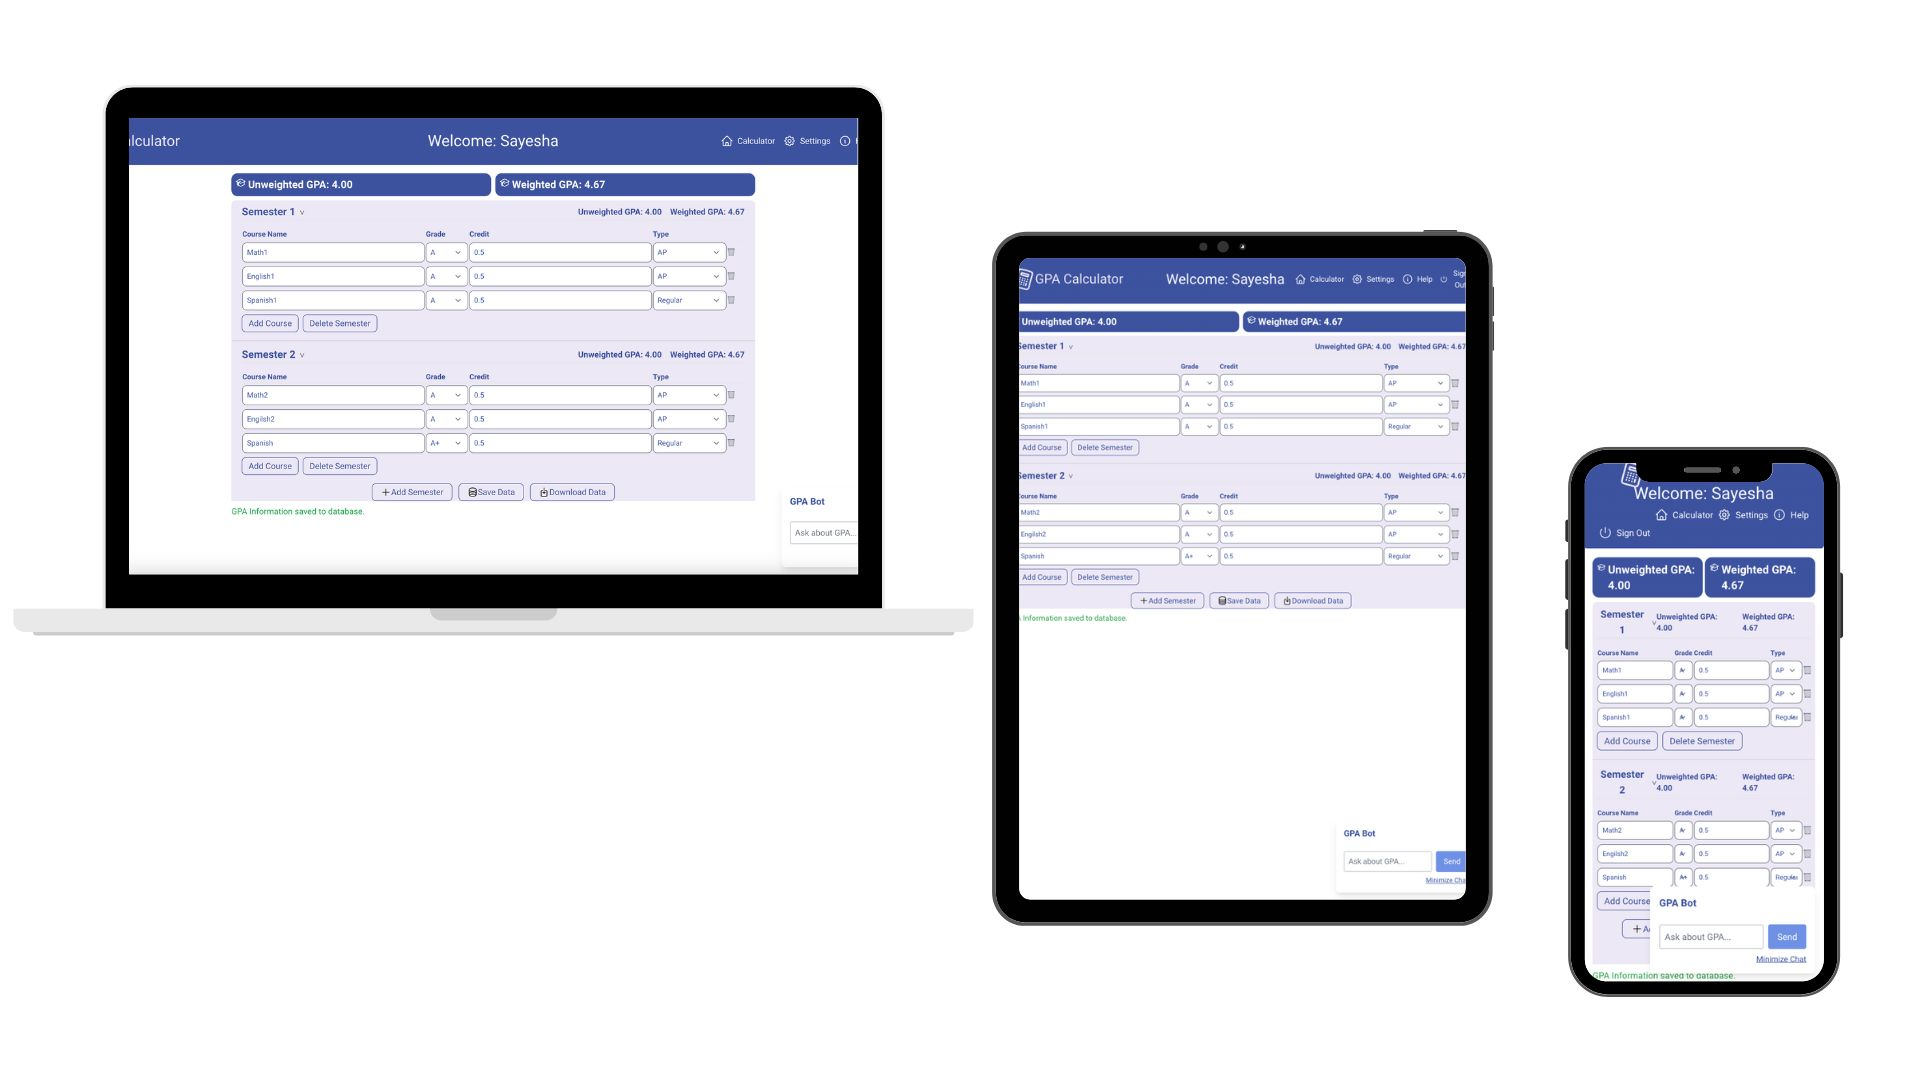
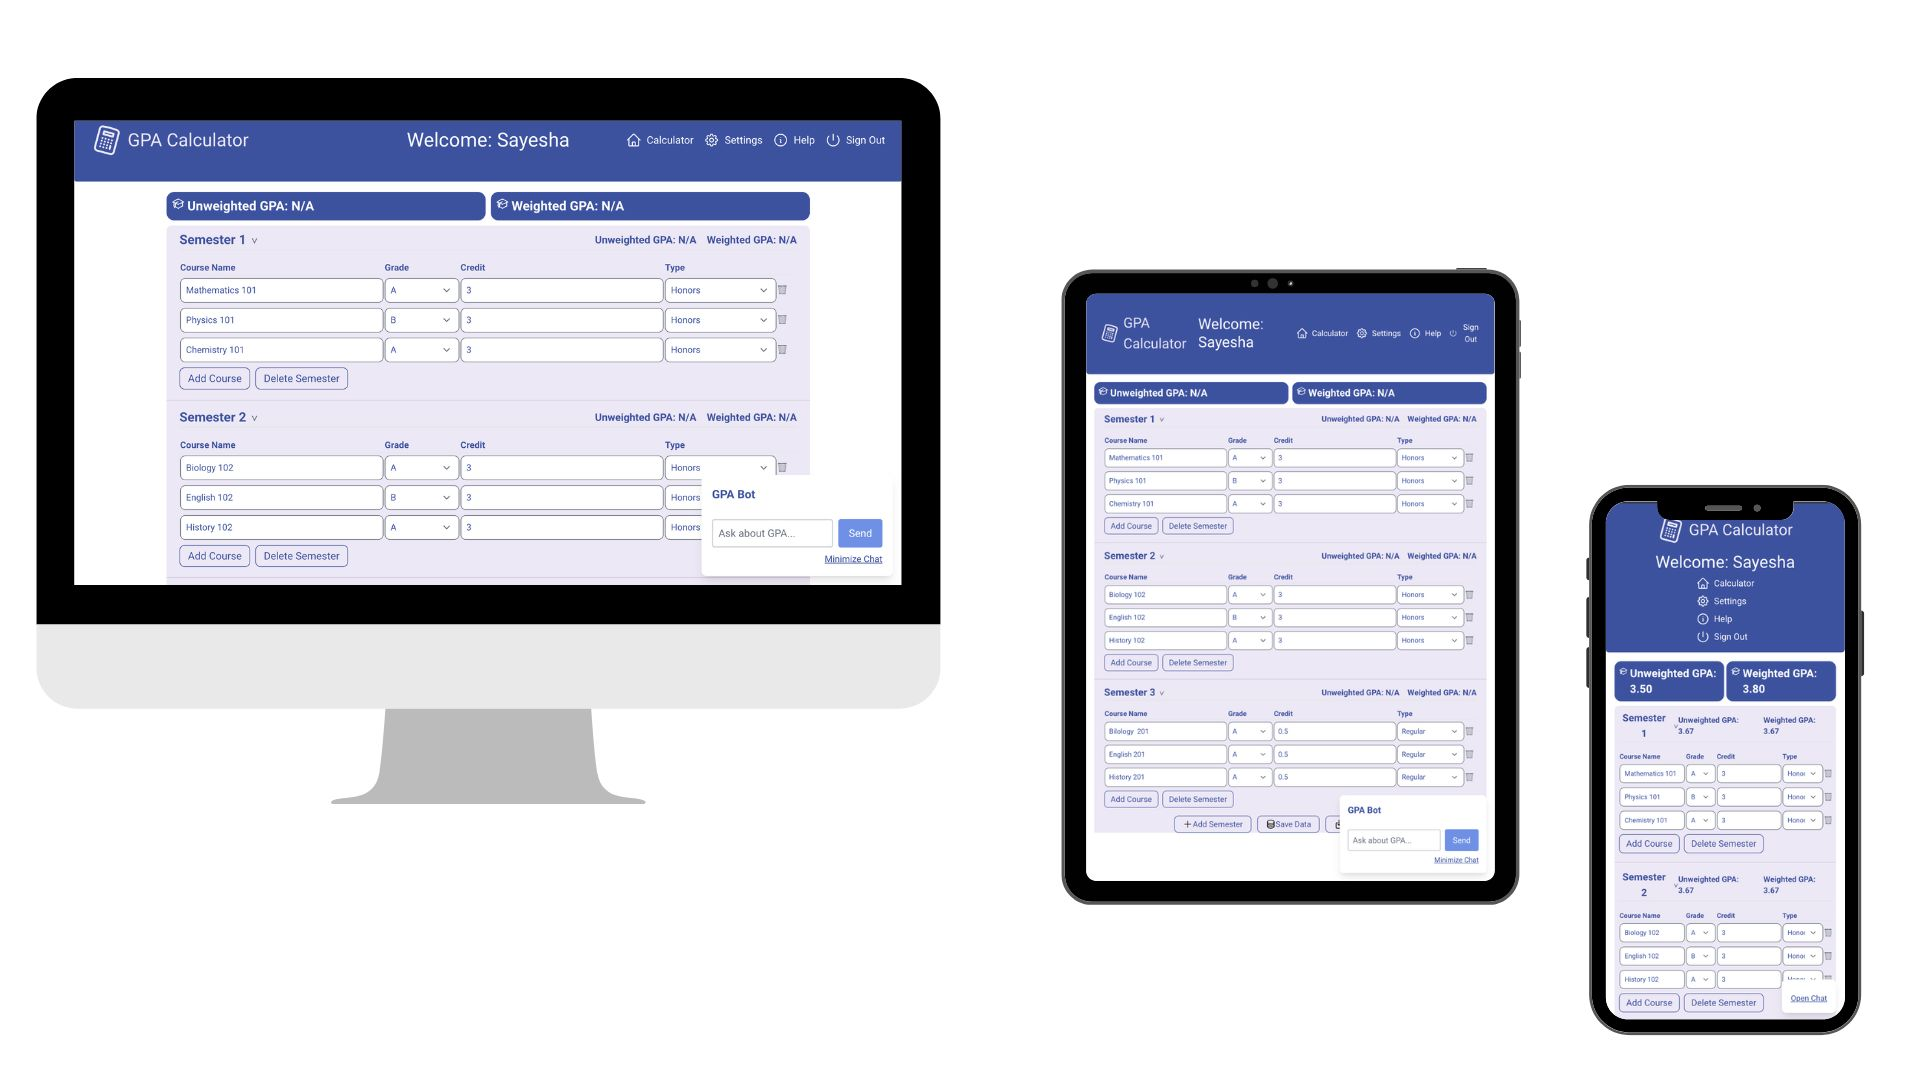
Mock Data Changes

Changed region(s): [[0.0, 0.0611, 0.9688, 0.9778], [0.1875, 0.6417, 0.3438, 0.7639]]

diff --git a/app/lib/data.ts b/app/lib/data.ts
@@ -128,37 +128,37 @@ export async function getStudentData(id: string): Promise<Student> {
       studentName: "Sayesha",
       studentEmail: "sayesha@test.com",
       studentPassword: "securepassword",
-      studentWeightedGPA: 3.8,
-      studentUnweightedGPA: 3.5,
+      studentWeightedGPA: 3.50,
+      studentUnweightedGPA: 3.83,
       semester: [
         {
           semesterId: 1,
           semesterName: "Fall 2023",
-          semUnweightedGPA: 3.6,
-          semWeightedGPA: 3.9,
+          semUnweightedGPA: 3.67,
+          semWeightedGPA: 4.0,
           course: [
             { 
               courseId: 1, 
-              courseName: "Mathematics 101", 
+              courseName: "Math", 
               courseGrade: "A", 
-              courseCredit: 3, 
-              courseType: "Core", 
+              courseCredit: 0.5, 
+              courseType: "AP", 
               courseSemester: null 
             },
             { 
               courseId: 2, 
-              courseName: "Physics 101", 
-              courseGrade: "B", 
-              courseCredit: 3, 
-              courseType: "Core", 
+              courseName: "English", 
+              courseGrade: "A", 
+              courseCredit: 0.5, 
+              courseType: "Regular", 
               courseSemester: null 
             },
             { 
               courseId: 3, 
-              courseName: "Chemistry 101", 
-              courseGrade: "A", 
-              courseCredit: 3, 
-              courseType: "Core", 
+              courseName: "Spanish", 
+              courseGrade: "B", 
+              courseCredit: 0.5, 
+              courseType: "Regular", 
               courseSemester: null 
             }
           ],
@@ -167,31 +167,31 @@ export async function getStudentData(id: string): Promise<Student> {
         {
           semesterId: 2,
           semesterName: "Spring 2024",
-          semUnweightedGPA: 3.7,
-          semWeightedGPA: 4.0,
+          semUnweightedGPA: 3.33,
+          semWeightedGPA: 3.67,
           course: [
             { 
               courseId: 4, 
-              courseName: "Biology 102", 
+              courseName: "Math", 
               courseGrade: "A", 
-              courseCredit: 3, 
-              courseType: "Core", 
+              courseCredit: 0.5, 
+              courseType: "AP", 
               courseSemester: null 
             },
             { 
               courseId: 5, 
-              courseName: "English 102", 
-              courseGrade: "B", 
-              courseCredit: 3, 
-              courseType: "Core", 
+              courseName: "English", 
+              courseGrade: "A", 
+              courseCredit: 0.5, 
+              courseType: "Regular", 
               courseSemester: null 
             },
             { 
               courseId: 6, 
-              courseName: "History 102", 
-              courseGrade: "A", 
-              courseCredit: 3, 
-              courseType: "Core", 
+              courseName: "Spanish", 
+              courseGrade: "C", 
+              courseCredit: 0.5, 
+              courseType: "Regular", 
               courseSemester: null 
             }
           ],
